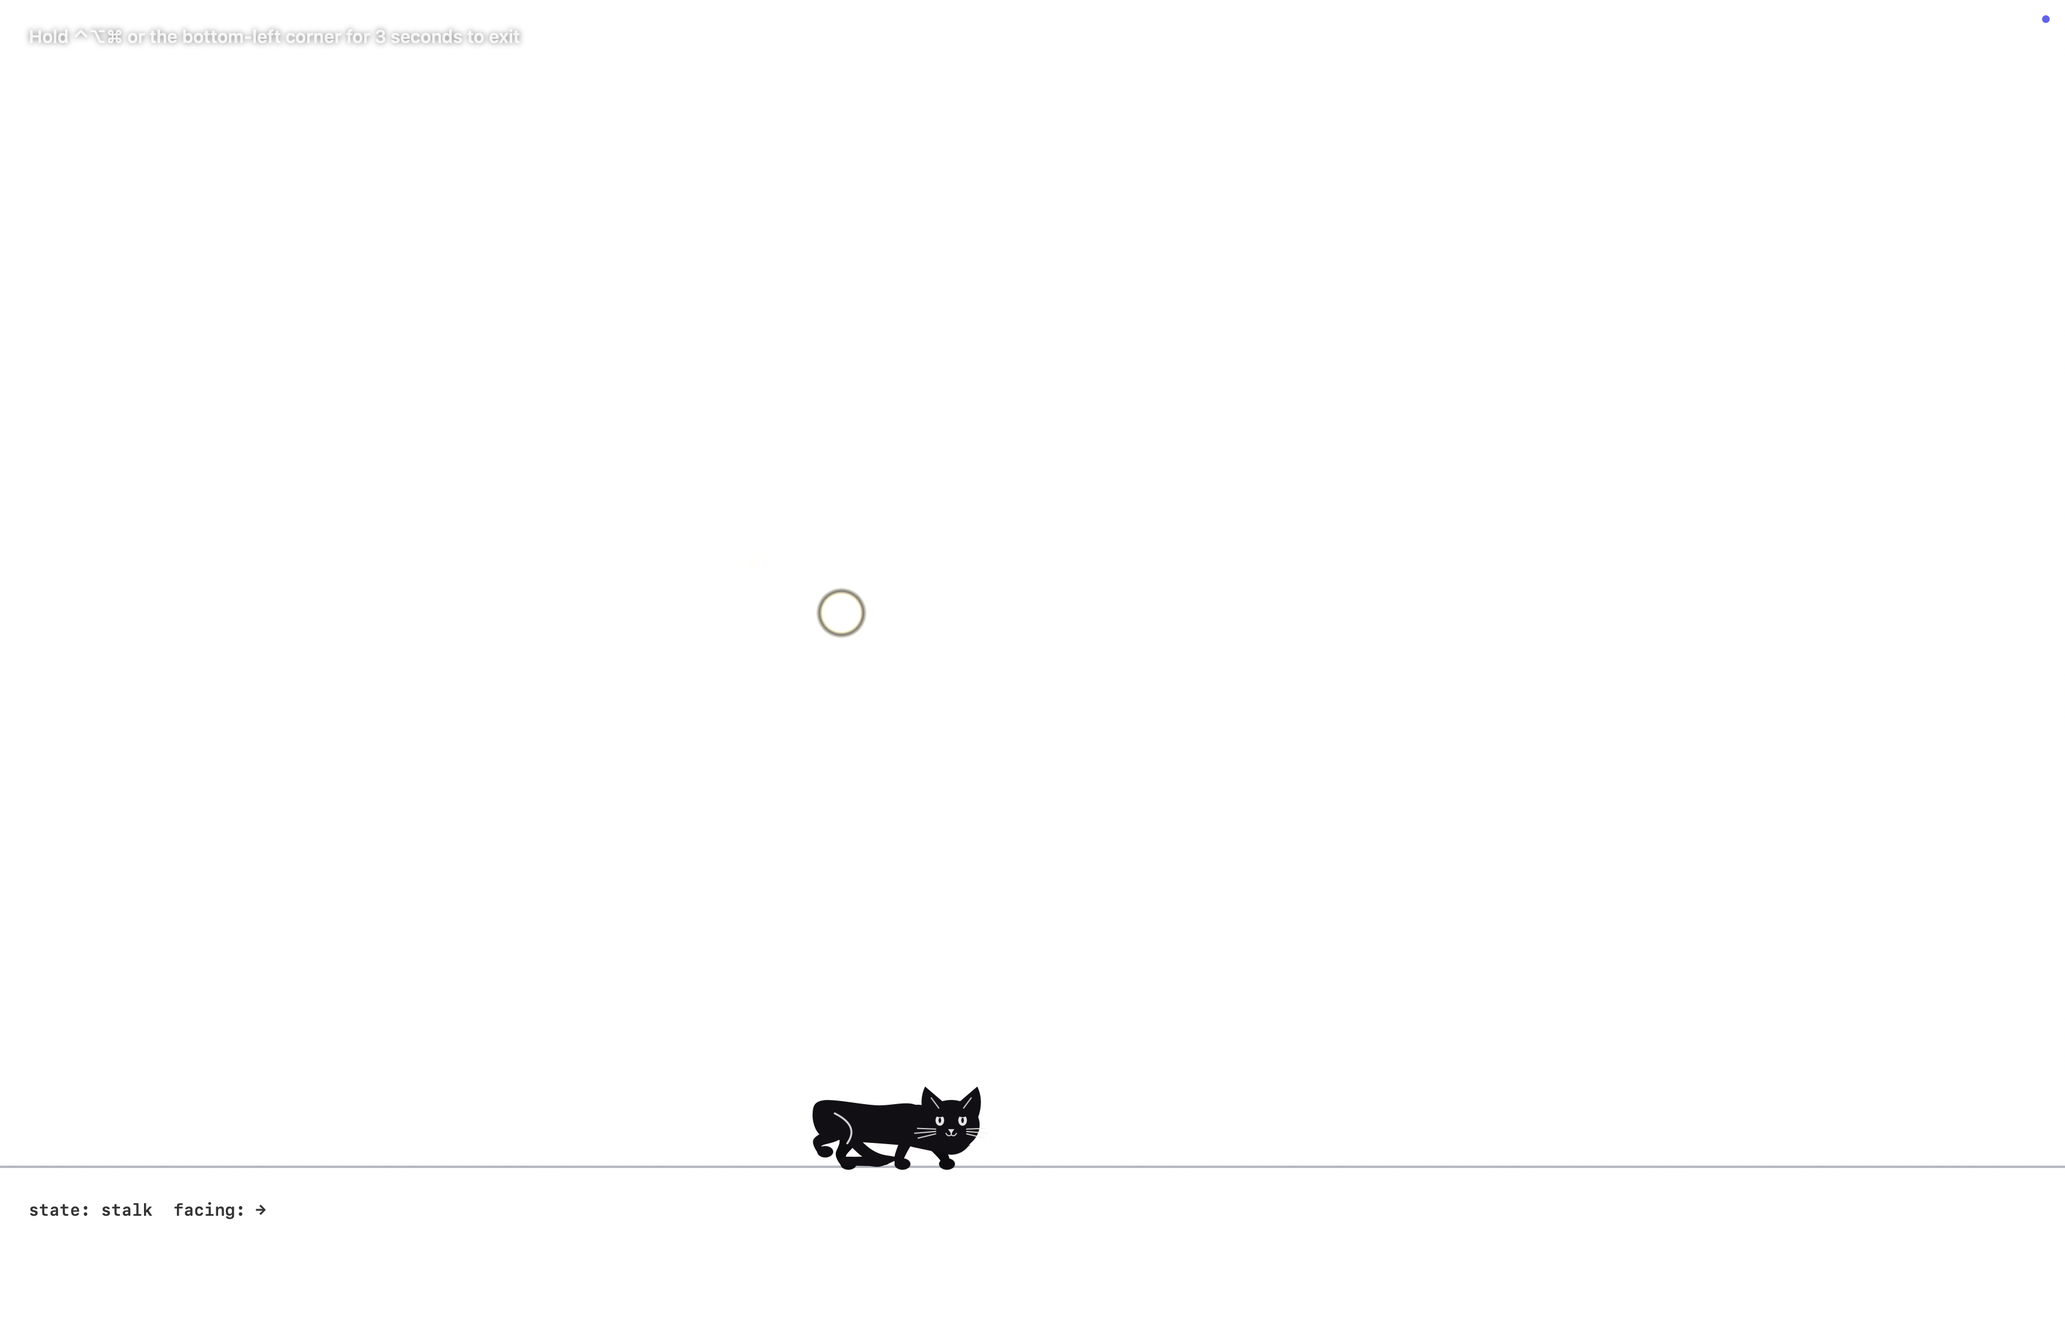
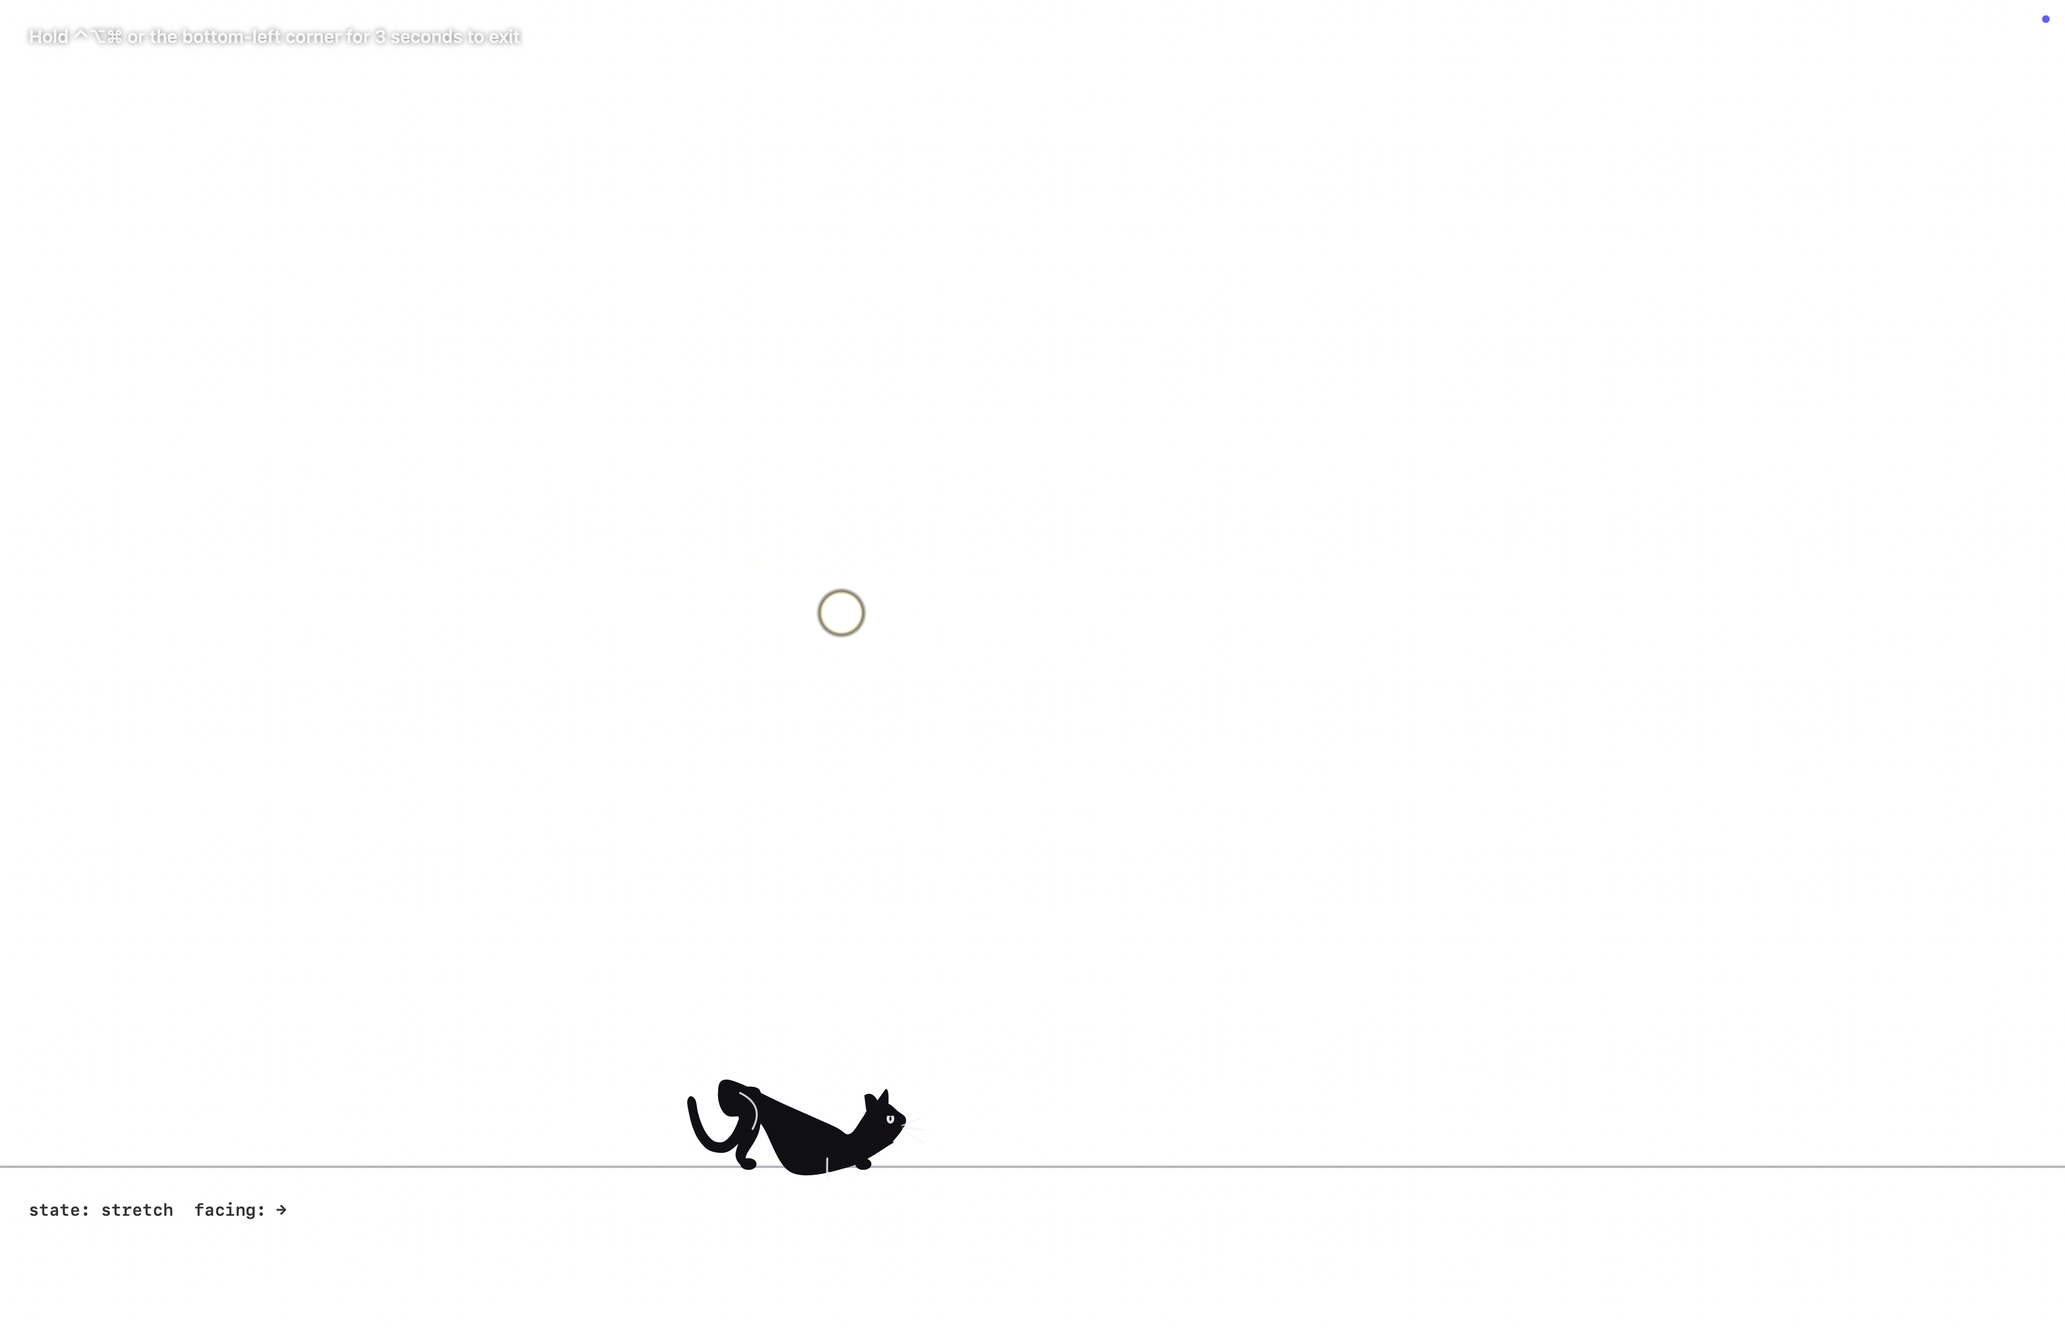
KiddyCat silhouette: state-dependent head mode, completing the reference sheet
The reference's resting cats (sit, stand, loaf) face the viewer; its action
cats (leap, play, eat) are in profile. The head now follows: front-facing
group for idle/walk/trot/sit/lie/startle, profile head (crown-brow-nose
step outline, tight ear pair, lidded side eye, forward whiskers) for
stalk/pounce/land/stretch/groom. Foreleg accent suppressed during the
play-bow (extended leg left it floating).

Verified: stalk and stretch captures show the profile treatment matching
the reference's bottom row.

Changed region(s): [[0.3125, 0.803, 0.5, 0.8957], [0.0625, 0.8957, 0.125, 0.9266]]

diff --git a/Sources/kiddyproof/KiddyCat.swift b/Sources/kiddyproof/KiddyCat.swift
@@ -640,16 +640,27 @@ final class KiddyCat {
             ctx.fillPath()
         }
 
-        // --- Body: one closed smooth outline ending in a thick neck. The head is
-        // a separate FRONT-FACING group (the reference cats walk in profile but
-        // turn the face to the viewer — big round skull, symmetric ears, both
-        // eyes). Flat color makes the union seamless.
+        // --- Body + head. Like the reference sheet: resting cats (sit, stand,
+        // loaf) turn a FRONT-FACING head to the viewer; action cats (stalk,
+        // leap, stretch) keep a PROFILE head. Flat color unions seamlessly.
+        let profileHead = state == .stalk || state == .pounceWindup || state == .pounceAir
+            || state == .land || state == .stretch || state == .groom
         let hp = headPitch * (state == .lie ? 0.5 : 1)
-        let hcx = headX - 0.22, hcy = headY - 0.08 + hp * 0.14
+        let hcx = profileHead ? headX - 0.06 : headX - 0.22
+        let hcy = (profileHead ? headY - 0.10 : headY - 0.08) + hp * 0.14
+        let R: CGFloat = 0.33
+        let ca = cos(hp * 0.5), sa = sin(hp * 0.5)
+        func H(_ dx: CGFloat, _ dy: CGFloat) -> (CGFloat, CGFloat) {
+            (hcx + dx * ca - dy * sa, hcy + dx * sa + dy * ca)
+        }
         let spineTopY = (shoulderY + rumpY) / 2 + 0.17 + pose.backArch
         let bellyY = shoulderY - 0.47 + pose.crouch * 0.22
         var outline: [(CGFloat, CGFloat)] = []
-        outline.append((hcx + 0.28, hcy - 0.30))                            // under head, front
+        if profileHead {
+            outline.append(H(R * 0.15, -R * 0.94))                          // under jaw
+        } else {
+            outline.append((hcx + 0.28, hcy - 0.30))                        // under head, front
+        }
         outline.append((shoulderX + 0.18 + sit * 0.11, shoulderY - 0.40 - sit * 0.02)) // chest
         outline.append(((shoulderX + rumpX) / 2 + 0.06, bellyY))            // belly
         outline.append((rumpX + 0.30, rumpY - 0.38 - sit * 0.10))           // groin / thigh front
@@ -658,45 +669,75 @@ final class KiddyCat {
         outline.append((rumpX - 0.12, rumpY + 0.21 + pose.backArch * 0.5))  // rump top
         outline.append(((rumpX + shoulderX) / 2, spineTopY))                // spine crest
         outline.append((shoulderX - 0.02 - sit * 0.10, shoulderY + 0.19 + sit * 0.06 + pose.backArch * 0.3)) // withers
-        outline.append((hcx - 0.28, hcy - 0.26))                            // under head, back
+        if profileHead {
+            // Profile head riding the outline: crown → brow → nose STEP → chin.
+            outline.append((shoulderX + 0.20 - sit * 0.08, shoulderY + 0.08 + sit * 0.26)) // neck top
+            outline.append(H(-R * 0.66, R * 0.55))                          // crown back
+            outline.append(H(-R * 0.12, R * 0.98))                          // crown top
+            outline.append(H(R * 0.55, R * 0.82))                           // brow
+            outline.append(H(R * 0.90, R * 0.34))                           // stop
+            outline.append(H(R * 1.12, R * 0.02))                           // nose tip
+            outline.append(H(R * 1.05, -R * 0.26))                          // under nose
+            outline.append(H(R * 0.72, -R * 0.56))                          // chin
+            outline.append(H(R * 0.30, -R * 0.84))                          // jaw
+        } else {
+            outline.append((hcx - 0.28, hcy - 0.26))                        // under head, back
+        }
         ctx.setFillColor(bodyColor.cgColor)
         ctx.addPath(Self.catmull(mapped(outline), closed: true))
         ctx.fillPath()
 
-        // Thick neck joining shoulders to skull (fully covered by both).
-        ctx.setStrokeColor(bodyColor.cgColor)
-        ctx.setLineCap(.round)
-        ctx.setLineWidth(s * 0.62)
-        ctx.beginPath()
-        ctx.move(to: P(shoulderX - 0.02, shoulderY - 0.10))
-        ctx.addLine(to: P(hcx, hcy - 0.12))
-        ctx.strokePath()
-
-        // Head group: wide round skull with soft cheeks.
         let flick = earFlick * 0.06
-        let hw: CGFloat = 0.41, hh: CGFloat = 0.36   // skull radii
-        let headC = P(hcx, hcy)
-        // Ears first (bases swallowed by the skull): symmetric, canted outward.
-        func frontEar(_ side: CGFloat, cant: CGFloat) {
-            let e = CGMutablePath()
-            let baseIn  = (hcx + side * hw * 0.16, hcy + hh * 0.80)
-            let baseOut = (hcx + side * hw * 0.94, hcy + hh * 0.28)
-            let tip     = (hcx + side * hw * (0.92 + cant), hcy + hh * (1.34 + pose.earPerk * 0.20))
-            e.move(to: P(baseIn.0, baseIn.1))
-            e.addLine(to: P(tip.0, tip.1))
-            // Convex outer edge.
-            e.addQuadCurve(to: P(baseOut.0, baseOut.1),
-                           control: P(hcx + side * hw * 1.16, hcy + hh * 0.96))
-            e.closeSubpath()
-            ctx.addPath(e)
-            ctx.fillPath()
+        let hw: CGFloat = 0.41, hh: CGFloat = 0.36   // front-face skull radii
+        if profileHead {
+            // Profile ears: a tight pair on the crown, rotating with pitch.
+            let earLen = R * (0.60 + 0.36 * pose.earPerk)
+            func profEar(baseA: CGFloat, tipA: CGFloat, tipLen: CGFloat) {
+                let e = CGMutablePath()
+                let a1 = baseA - 0.36, a2 = baseA + 0.36
+                e.move(to: P(hcx + cos(a1) * R * 0.90, hcy + sin(a1) * R * 0.90))
+                let tip = (x: hcx + cos(tipA) * (R * 0.72 + tipLen), y: hcy + sin(tipA) * (R * 0.72 + tipLen))
+                e.addQuadCurve(to: P(tip.x, tip.y),
+                               control: P(hcx + cos(a1 + 0.14) * (R + tipLen * 0.75), hcy + sin(a1 + 0.14) * (R + tipLen * 0.75)))
+                e.addLine(to: P(hcx + cos(a2) * R * 0.90, hcy + sin(a2) * R * 0.90))
+                e.closeSubpath()
+                ctx.addPath(e)
+                ctx.fillPath()
+            }
+            ctx.setFillColor(bodyColor.cgColor)
+            profEar(baseA: 1.70 + hp * 0.5, tipA: 1.78 + hp * 0.5 + flick * 1.6, tipLen: earLen * 0.88)
+            profEar(baseA: 1.26 + hp * 0.5, tipA: 1.14 + hp * 0.5, tipLen: earLen)
+        } else {
+            // Thick neck joining shoulders to skull (fully covered by both).
+            ctx.setStrokeColor(bodyColor.cgColor)
+            ctx.setLineCap(.round)
+            ctx.setLineWidth(s * 0.62)
+            ctx.beginPath()
+            ctx.move(to: P(shoulderX - 0.02, shoulderY - 0.10))
+            ctx.addLine(to: P(hcx, hcy - 0.12))
+            ctx.strokePath()
+            // Symmetric front ears, bases swallowed by the skull.
+            func frontEar(_ side: CGFloat, cant: CGFloat) {
+                let e = CGMutablePath()
+                let baseIn  = (hcx + side * hw * 0.16, hcy + hh * 0.80)
+                let baseOut = (hcx + side * hw * 0.94, hcy + hh * 0.28)
+                let tip     = (hcx + side * hw * (0.92 + cant), hcy + hh * (1.34 + pose.earPerk * 0.20))
+                e.move(to: P(baseIn.0, baseIn.1))
+                e.addLine(to: P(tip.0, tip.1))
+                e.addQuadCurve(to: P(baseOut.0, baseOut.1),
+                               control: P(hcx + side * hw * 1.16, hcy + hh * 0.96))
+                e.closeSubpath()
+                ctx.addPath(e)
+                ctx.fillPath()
+            }
+            ctx.setFillColor(bodyColor.cgColor)
+            frontEar(1, cant: flick)          // near-side ear (flicks)
+            frontEar(-1, cant: 0)             // far-side ear
+            // Skull: slightly wider than tall, cheeks full.
+            let headC = P(hcx, hcy)
+            ctx.fillEllipse(in: CGRect(x: headC.x - hw * s, y: headC.y - hh * s,
+                                       width: hw * 2 * s, height: hh * 2 * s))
         }
-        ctx.setFillColor(bodyColor.cgColor)
-        frontEar(1, cant: flick)          // near-side ear (flicks)
-        frontEar(-1, cant: 0)             // far-side ear
-        // Skull: slightly wider than tall, cheeks full.
-        ctx.fillEllipse(in: CGRect(x: headC.x - hw * s, y: headC.y - hh * s,
-                                   width: hw * 2 * s, height: hh * 2 * s))
 
         // Sitting: haunch mass over the folded rear, blended into the outline.
         if sit > 0.15 {
@@ -724,7 +765,7 @@ final class KiddyCat {
         ctx.strokePath()
         // Foreleg: a short line separating the near front leg from the chest.
         // Static poses only — a swinging leg leaves the line floating.
-        if state != .pounceAir, state != .lie, abs(speed) < size * 0.3 {
+        if state != .pounceAir, state != .lie, pose.frontLegBend <= 0, abs(speed) < size * 0.3 {
             let leg = CGMutablePath()
             leg.move(to: P(shoulderX - 0.10 + sit * 0.06, bellyY - 0.01))
             leg.addQuadCurve(to: P(shoulderX - 0.12 + sit * 0.10, 0.12),
@@ -733,66 +774,91 @@ final class KiddyCat {
             ctx.strokePath()
         }
 
-        // --- Face (front-facing, per the reference): two eyes, nose, mouth,
-        // whiskers both sides. Features shift a touch with head pitch.
-        let fy = hp * 0.05
-        // Whiskers.
-        ctx.setStrokeColor(accent.withAlphaComponent(0.85).cgColor)
-        ctx.setLineWidth(s * 0.017)
-        for side: CGFloat in [-1, 1] {
-            for (dy, len) in [(CGFloat(0.02), CGFloat(0.26)), (CGFloat(-0.05), CGFloat(0.30)), (CGFloat(-0.12), CGFloat(0.25))] {
+        // --- Face. Profile: side eye + forward whiskers (action cats in the
+        // reference). Front: two eyes, nose, ω mouth, whiskers both sides.
+        let eyeOpen = 1 - blinkPhase
+        if profileHead {
+            // Whiskers fanning forward from the muzzle.
+            ctx.setStrokeColor(accent.withAlphaComponent(0.85).cgColor)
+            ctx.setLineWidth(s * 0.017)
+            for (dy, len, tilt) in [(CGFloat(-0.06), CGFloat(0.30), CGFloat(0.08)),
+                                    (CGFloat(-0.12), CGFloat(0.33), CGFloat(0.00)),
+                                    (CGFloat(-0.18), CGFloat(0.28), CGFloat(-0.08))] {
+                let base = H(R * 0.88, R * (dy * 2 - 0.18))
+                let tip  = (base.0 + len * ca - tilt * sa, base.1 + len * sa + tilt * ca)
                 ctx.beginPath()
-                ctx.move(to: P(hcx + side * hw * 0.55, hcy + fy - 0.10 + dy * 0.5))
-                ctx.addLine(to: P(hcx + side * (hw * 0.55 + len), hcy + fy - 0.10 + dy))
+                ctx.move(to: P(base.0, base.1))
+                ctx.addLine(to: P(tip.0, tip.1 + dy))
                 ctx.strokePath()
             }
-        }
-        // Inner-ear lines.
-        for side: CGFloat in [-1, 1] {
-            ctx.beginPath()
-            ctx.move(to: P(hcx + side * hw * 0.44, hcy + hh * 0.68))
-            ctx.addLine(to: P(hcx + side * hw * 0.70, hcy + hh * 1.08))
-            ctx.strokePath()
-        }
-        // Eyes (blink scales height): light almonds with body-colored slits.
-        let eyeOpen = 1 - blinkPhase
-        if eyeOpen > 0.08 {
-            let ew = s * 0.062, eh = s * 0.078 * eyeOpen
-            for side: CGFloat in [-1, 1] {
-                let e = P(hcx + side * hw * 0.40, hcy + fy + hh * 0.10)
+            // Lidded side eye.
+            if eyeOpen > 0.08 {
+                let e = P(hcx + R * 0.42, hcy + R * 0.22 + hp * 0.03)
+                let ew = s * 0.055, eh = s * 0.070 * eyeOpen
                 ctx.setFillColor(accent.withAlphaComponent(0.95).cgColor)
                 ctx.fillEllipse(in: CGRect(x: e.x - ew, y: e.y - eh, width: ew * 2, height: eh * 2))
                 ctx.setFillColor(bodyColor.cgColor)
-                ctx.fillEllipse(in: CGRect(x: e.x - ew * 0.30, y: e.y - eh * 0.48, width: ew * 0.60, height: eh * 0.96))
-                // Upper lid: flatten the eye top for the reference's calm gaze.
-                ctx.fillEllipse(in: CGRect(x: e.x - ew * 1.1, y: e.y + eh * 0.58, width: ew * 2.2, height: eh * 1.2))
+                ctx.fillEllipse(in: CGRect(x: e.x - ew * 0.28, y: e.y - eh * 0.45, width: ew * 0.56, height: eh * 0.90))
+                ctx.fillEllipse(in: CGRect(x: e.x - ew * 1.1, y: e.y + eh * 0.55, width: ew * 2.2, height: eh * 1.1))
             }
+        } else {
+            let fy = hp * 0.05
+            // Whiskers.
+            ctx.setStrokeColor(accent.withAlphaComponent(0.85).cgColor)
+            ctx.setLineWidth(s * 0.017)
+            for side: CGFloat in [-1, 1] {
+                for (dy, len) in [(CGFloat(0.02), CGFloat(0.26)), (CGFloat(-0.05), CGFloat(0.30)), (CGFloat(-0.12), CGFloat(0.25))] {
+                    ctx.beginPath()
+                    ctx.move(to: P(hcx + side * hw * 0.55, hcy + fy - 0.10 + dy * 0.5))
+                    ctx.addLine(to: P(hcx + side * (hw * 0.55 + len), hcy + fy - 0.10 + dy))
+                    ctx.strokePath()
+                }
+            }
+            // Inner-ear lines.
+            for side: CGFloat in [-1, 1] {
+                ctx.beginPath()
+                ctx.move(to: P(hcx + side * hw * 0.44, hcy + hh * 0.68))
+                ctx.addLine(to: P(hcx + side * hw * 0.70, hcy + hh * 1.08))
+                ctx.strokePath()
+            }
+            // Eyes (blink scales height): light almonds, round pupils, calm lids.
+            if eyeOpen > 0.08 {
+                let ew = s * 0.062, eh = s * 0.078 * eyeOpen
+                for side: CGFloat in [-1, 1] {
+                    let e = P(hcx + side * hw * 0.40, hcy + fy + hh * 0.10)
+                    ctx.setFillColor(accent.withAlphaComponent(0.95).cgColor)
+                    ctx.fillEllipse(in: CGRect(x: e.x - ew, y: e.y - eh, width: ew * 2, height: eh * 2))
+                    ctx.setFillColor(bodyColor.cgColor)
+                    ctx.fillEllipse(in: CGRect(x: e.x - ew * 0.30, y: e.y - eh * 0.48, width: ew * 0.60, height: eh * 0.96))
+                    ctx.fillEllipse(in: CGRect(x: e.x - ew * 1.1, y: e.y + eh * 0.58, width: ew * 2.2, height: eh * 1.2))
+                }
+            }
+            // Nose: a tiny light triangle, point down.
+            ctx.setFillColor(accent.withAlphaComponent(0.9).cgColor)
+            let np = P(hcx, hcy + fy - hh * 0.34)
+            let nw = s * 0.045
+            let nose = CGMutablePath()
+            nose.move(to: CGPoint(x: np.x - nw, y: np.y + nw * 0.7))
+            nose.addLine(to: CGPoint(x: np.x + nw, y: np.y + nw * 0.7))
+            nose.addLine(to: CGPoint(x: np.x, y: np.y - nw * 0.8))
+            nose.closeSubpath()
+            ctx.addPath(nose)
+            ctx.fillPath()
+            // Mouth: the little ω under the nose.
+            ctx.setStrokeColor(accent.withAlphaComponent(0.85).cgColor)
+            ctx.setLineWidth(s * 0.016)
+            let mc = P(hcx, hcy + fy - hh * 0.52)
+            ctx.beginPath()
+            ctx.move(to: CGPoint(x: mc.x, y: mc.y + s * 0.05))
+            ctx.addLine(to: CGPoint(x: mc.x, y: mc.y + s * 0.015))
+            ctx.move(to: CGPoint(x: mc.x, y: mc.y + s * 0.015))
+            ctx.addQuadCurve(to: CGPoint(x: mc.x - s * 0.075, y: mc.y + s * 0.035),
+                             control: CGPoint(x: mc.x - s * 0.045, y: mc.y - s * 0.02))
+            ctx.move(to: CGPoint(x: mc.x, y: mc.y + s * 0.015))
+            ctx.addQuadCurve(to: CGPoint(x: mc.x + s * 0.075, y: mc.y + s * 0.035),
+                             control: CGPoint(x: mc.x + s * 0.045, y: mc.y - s * 0.02))
+            ctx.strokePath()
         }
-        // Nose: a tiny light triangle, point down.
-        ctx.setFillColor(accent.withAlphaComponent(0.9).cgColor)
-        let np = P(hcx, hcy + fy - hh * 0.34)
-        let nw = s * 0.045
-        let nose = CGMutablePath()
-        nose.move(to: CGPoint(x: np.x - nw, y: np.y + nw * 0.7))
-        nose.addLine(to: CGPoint(x: np.x + nw, y: np.y + nw * 0.7))
-        nose.addLine(to: CGPoint(x: np.x, y: np.y - nw * 0.8))
-        nose.closeSubpath()
-        ctx.addPath(nose)
-        ctx.fillPath()
-        // Mouth: the little ω under the nose.
-        ctx.setStrokeColor(accent.withAlphaComponent(0.85).cgColor)
-        ctx.setLineWidth(s * 0.016)
-        let mc = P(hcx, hcy + fy - hh * 0.52)
-        ctx.beginPath()
-        ctx.move(to: CGPoint(x: mc.x, y: mc.y + s * 0.05))
-        ctx.addLine(to: CGPoint(x: mc.x, y: mc.y + s * 0.015))
-        ctx.move(to: CGPoint(x: mc.x, y: mc.y + s * 0.015))
-        ctx.addQuadCurve(to: CGPoint(x: mc.x - s * 0.075, y: mc.y + s * 0.035),
-                         control: CGPoint(x: mc.x - s * 0.045, y: mc.y - s * 0.02))
-        ctx.move(to: CGPoint(x: mc.x, y: mc.y + s * 0.015))
-        ctx.addQuadCurve(to: CGPoint(x: mc.x + s * 0.075, y: mc.y + s * 0.035),
-                         control: CGPoint(x: mc.x + s * 0.045, y: mc.y - s * 0.02))
-        ctx.strokePath()
         ctx.setAlpha(1)
     }
 
